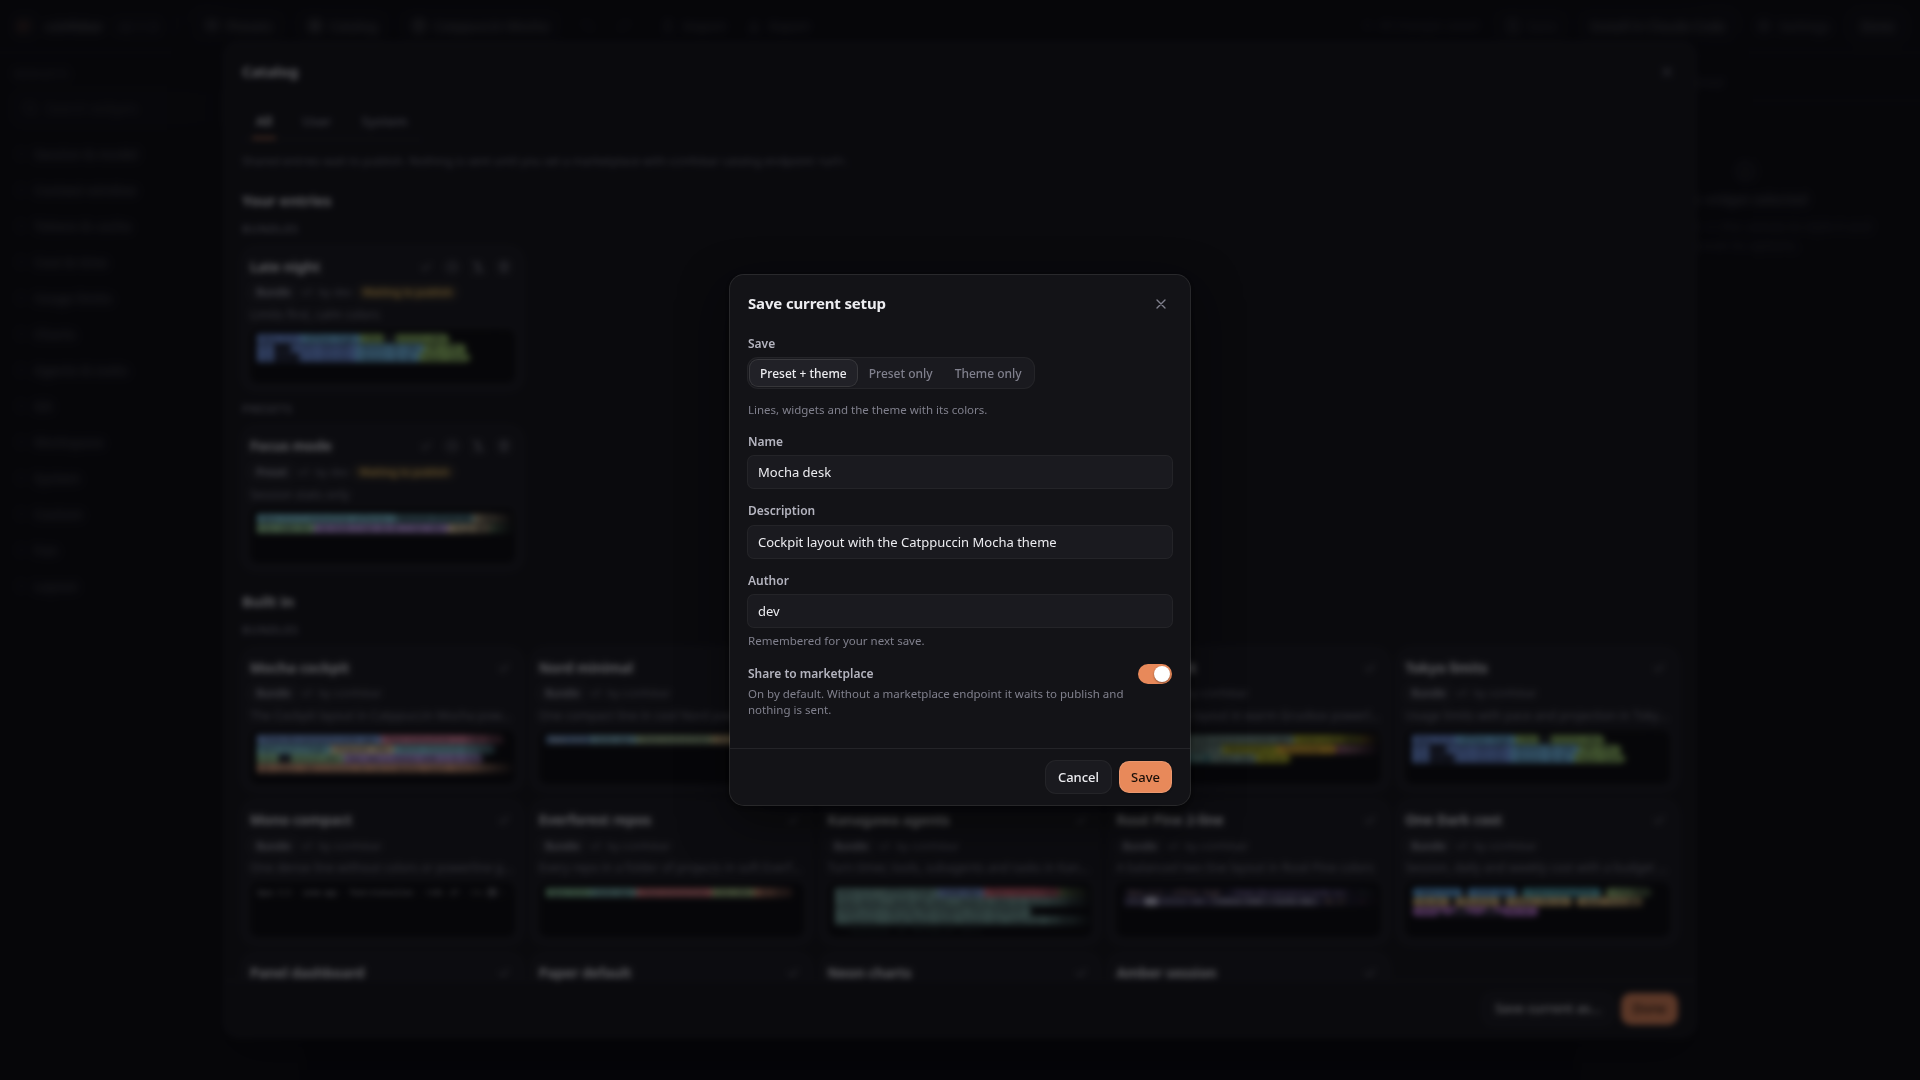
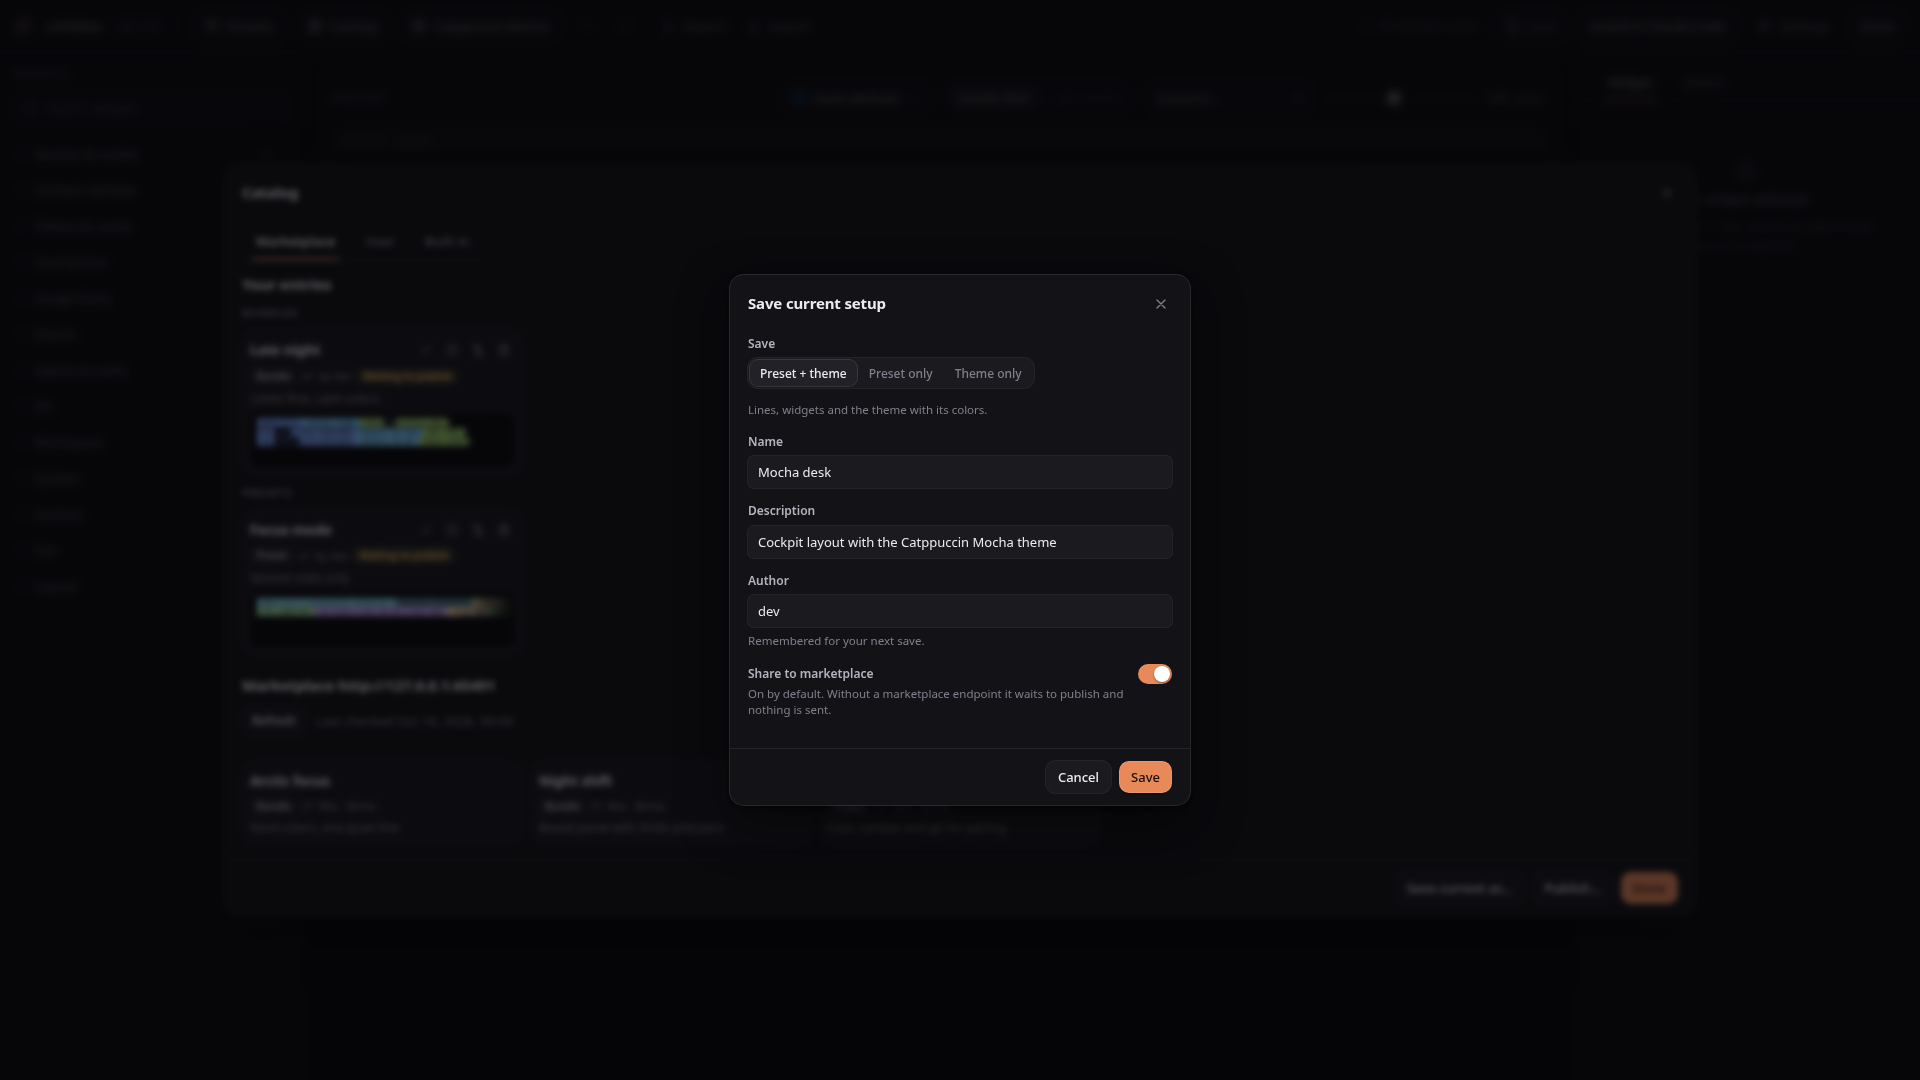
fix(12-24): installed entries show their origin and offer no Share; catalog screenshots
- found in the headless Chrome check: an entry installed from the
  marketplace offered Share, which the server always refuses; it now shows
  "From the marketplace" and has no Share or Stop sharing action
- install review: spacing between its paragraphs
- npm run screenshots runs a reference marketplace on 127.0.0.1 with another
  publisher's entries, so the Catalog shots show the Marketplace tab without
  the network; new catalog-install shot in the README

diff --git a/src/editor/web/catalog.ts b/src/editor/web/catalog.ts
@@ -205,6 +205,7 @@ export async function applyEntry(e: CatalogEntryInfo, close: (v?: unknown) => vo
 }
 
 function chip(e: CatalogEntryInfo): HTMLElement | null {
+  if (e.origin) return h('span', { class: 'catalog-chip installed' }, t('catalog.share.installed'));
   if (!e.share) return null;
   const state = e.share.state;
   // held by the marketplace until an admin approves
@@ -367,17 +368,23 @@ export async function openCatalog(): Promise<void> {
       actionButton('', 'clock', t('catalog.action.history'), t('catalog.action.historyName', { name }), () =>
         act(e, historyDialog),
       ),
-      shared
-        ? actionButton(
-            '',
-            'upload-off',
-            t('catalog.action.unshare'),
-            t('catalog.action.unshareName', { name }),
-            () => act(e, toggleShare),
-          )
-        : actionButton('', 'upload', t('catalog.action.share'), t('catalog.action.shareName', { name }), () =>
-            act(e, toggleShare),
-          ),
+      e.origin
+        ? ''
+        : shared
+          ? actionButton(
+              '',
+              'upload-off',
+              t('catalog.action.unshare'),
+              t('catalog.action.unshareName', { name }),
+              () => act(e, toggleShare),
+            )
+          : actionButton(
+              '',
+              'upload',
+              t('catalog.action.share'),
+              t('catalog.action.shareName', { name }),
+              () => act(e, toggleShare),
+            ),
       actionButton(
         ' danger',
         'trash',
@@ -429,7 +436,9 @@ export async function openCatalog(): Promise<void> {
             ? []
             : [
                 text(t('catalog.action.history'), run(historyDialog)),
-                text(t(shared ? 'catalog.action.unshare' : 'catalog.action.share'), run(toggleShare)),
+                ...(e.origin
+                  ? []
+                  : [text(t(shared ? 'catalog.action.unshare' : 'catalog.action.share'), run(toggleShare))]),
                 text(t('catalog.action.delete'), run(deleteEntryDialog)),
               ]),
           h('span', { class: 'spacer' }),

diff --git a/test/editor/catalog-install-ui.test.ts b/test/editor/catalog-install-ui.test.ts
@@ -75,6 +75,7 @@ const installedEntry = (): CatalogEntryInfo => ({
   rev: 1,
   share: { wanted: false, state: 'local' },
   remote: null,
+  origin: { endpoint: ENDPOINT, id: 'bo/night-owl', version: 3 },
   updatedAt: '2026-10-17T10:00:00.000Z',
   scenario: null,
   content: { layout: { lines: [[{ id: 'm', type: 'model' }]] } },
@@ -262,7 +263,14 @@ describe('install from the marketplace (D-11)', () => {
     expect(top().all((e) => e.getAttribute('data-ref') === 'u-n')).toHaveLength(1);
     tab('user').dispatch('click');
     await tick(50);
-    expect(top().all((e) => e.getAttribute('data-ref') === 'u-n')).toHaveLength(1);
+    const card = top().all((e) => e.getAttribute('data-ref') === 'u-n')[0]!;
+    // installed entries cannot be shared as yours
+    expect(texts(card)).toContain('From the marketplace');
+    const titles = card.all((e) => e.tagName === 'BUTTON').map((b) => b.getAttribute('title'));
+    expect(titles).toEqual(['Apply', 'Version history', 'Delete']);
+    card.dispatch('click', { target: card });
+    await tick(50);
+    expect(footLabels()).toEqual(['Version history', 'Delete', 'Close', 'Apply']);
   });
 
   it('says when nothing runs and sends nothing on Cancel', async () => {

diff --git a/src/editor/web/store.ts b/src/editor/web/store.ts
@@ -107,6 +107,8 @@ export interface CatalogEntryInfo {
   share: { wanted: boolean; state: ShareState } | null;
   // review: the marketplace holds it for an admin
   remote: { id: string; version: number; review?: 'pending' } | null;
+  // installed from the marketplace; never shared as the user's own
+  origin?: { endpoint: string; id: string; version: number } | null;
   updatedAt: string | null;
   scenario: string | null;
   content: EntryContent;

diff --git a/src/core/i18n/en/catalog.ts b/src/core/i18n/en/catalog.ts
@@ -319,6 +319,7 @@ export const catalogMessages = {
   'catalog.install.toast': 'Installed {name}. Apply it from the User tab.',
   'catalog.install.toastVersion': 'Added v{version} to {name}. Apply it from the User tab.',
   'catalog.install.toastSame': '{name} is already installed.',
+  'catalog.share.installed': 'From the marketplace',
   'catalog.report.action': 'Report…',
   'catalog.report.title': 'Report {name}',
   'catalog.report.text':

diff --git a/src/editor/web/style.css b/src/editor/web/style.css
@@ -2255,6 +2255,10 @@ input[type="range"]:disabled {
   --c: var(--warn);
 }
 
+.catalog-chip.installed {
+  --c: var(--accent);
+}
+
 .catalog-account {
   display: flex;
   flex-wrap: wrap;
@@ -2279,6 +2283,15 @@ input[type="range"]:disabled {
 
 .catalog-checked {
   font-size: 0.8125rem;
+}
+
+.catalog-install {
+  display: grid;
+  gap: 0.6rem;
+}
+
+.catalog-install > p {
+  margin: 0;
 }
 
 .catalog-report-reason {

diff --git a/src/core/i18n/tr/catalog.ts b/src/core/i18n/tr/catalog.ts
@@ -333,6 +333,7 @@ export const catalogMessages = {
   'catalog.install.toastVersion':
     '{name} girdisine v{version} eklendi. Kullanıcı sekmesinden uygulayabilirsiniz.',
   'catalog.install.toastSame': '{name} zaten yüklü.',
+  'catalog.share.installed': "Marketplace'ten",
   'catalog.report.action': 'Bildir…',
   'catalog.report.title': '{name} girdisini bildir',
   'catalog.report.text':

diff --git a/docs/DEVELOPMENT.md b/docs/DEVELOPMENT.md
@@ -23,7 +23,7 @@ Requirements: Node.js 20 or newer. There are no runtime dependencies; everything
 | `npm run check` | Typecheck, lint and test |
 | `npm run docs` | Regenerate `docs/WIDGETS.md`, `schema/config.schema.json` and `schema/theme.schema.json` |
 | `npm run demo` | Regenerate `docs/images/demo.gif` from the sample data (needs Chrome or Chromium and ImageMagick; set `CHROME` to pick a browser) |
-| `npm run screenshots` | Regenerate the README editor screenshots in `docs/images/screenshots/` (dark and light, 1920x1080) from a temp config; needs `npm run build`, Node 22+ and Chrome or Chromium; set `CHROME` to pick a browser, `--only editor,themes` for a subset |
+| `npm run screenshots` | Regenerate the README editor screenshots in `docs/images/screenshots/` (dark and light, 1920x1080) from a temp config and a reference marketplace on 127.0.0.1 (built with `--market` when missing, so the Catalog shots need no network); needs `npm run build`, Node 22+ and Chrome or Chromium; set `CHROME` to pick a browser, `--only editor,themes` for a subset |
 | `npm run example` | Render `test/fixtures/payload.json` |
 
 Two scripts are not wired into npm or CI: `node scripts/homebrew-formula.mjs` fills in the Homebrew formula for the owner after a release (see [DISTRIBUTION.md](DISTRIBUTION.md#publishing-the-formula-owner)), and `node scripts/startup-probe.mjs` is a dev-only breakdown of where startup time goes, in temp dirs only.

diff --git a/README.md b/README.md
@@ -211,6 +211,17 @@ Mouse works too: click to select, drag a chip to move it.
 </details>
 
 <details>
+<summary>Install from the marketplace</summary>
+
+<p><b>Dark</b></p>
+<img src="docs/images/screenshots/catalog-install-dark.png" alt="Install from the marketplace, dark" width="100%">
+
+<p><b>Light</b></p>
+<img src="docs/images/screenshots/catalog-install-light.png" alt="Install from the marketplace, light" width="100%">
+
+</details>
+
+<details>
 <summary>Save to catalog</summary>
 
 <p><b>Dark</b></p>
